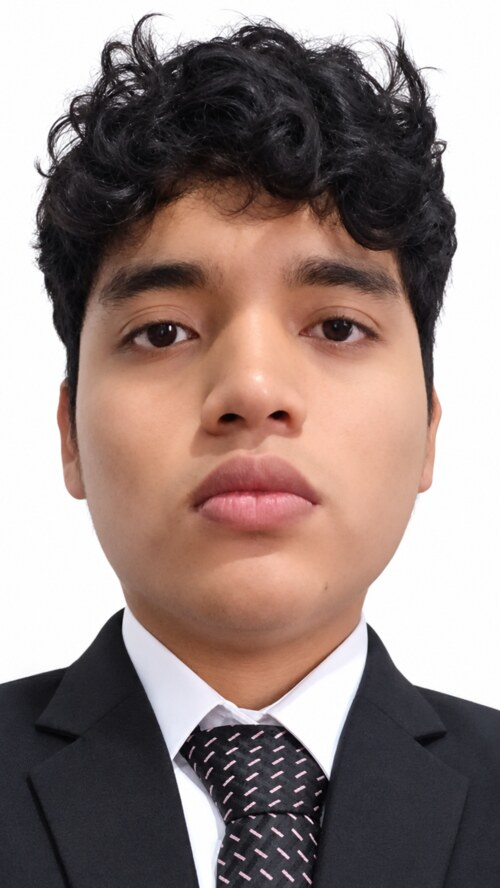
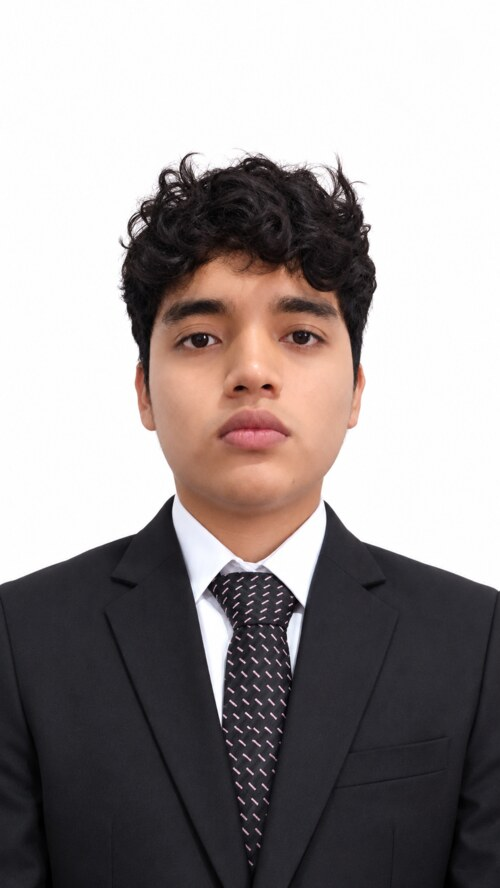
Actualizar foto de Cristopher Montoya y agregar foto de Luz Ari

diff --git a/index.html b/index.html
@@ -68,7 +68,7 @@
           <h2 id="equipoTitulo">Integrantes</h2>
           <ul class="equipo-lista">
             <li class="integrante">
-              <div class="integrante-foto" role="img" aria-label="Fotografía pendiente de Luz Ari Valencia"><span aria-hidden="true">LA</span></div>
+              <div class="integrante-foto"><img src="assets/img/luz-ari.jpg" alt="Luz Ari Valencia" width="100" height="100" loading="lazy" style="object-position:center 25%"></div>
               <h3>Luz<span>Ari Valencia</span></h3>
             </li>
             <li class="integrante">
@@ -84,7 +84,7 @@
               <h3>Renzo<span>Lucano Alvarez</span></h3>
             </li>
             <li class="integrante">
-              <div class="integrante-foto"><img src="assets/img/cristopher-montoya.jpg" alt="Cristopher Montoya Chacchi" width="100" height="100" loading="lazy" style="object-position:center 35%"></div>
+              <div class="integrante-foto"><img src="assets/img/cristopher-montoya.jpg?v=2" alt="Cristopher Montoya Chacchi" width="100" height="100" loading="lazy" style="object-position:center 35%"></div>
               <h3>Cristopher<span>Montoya Chacchi</span></h3>
             </li>
           </ul>
